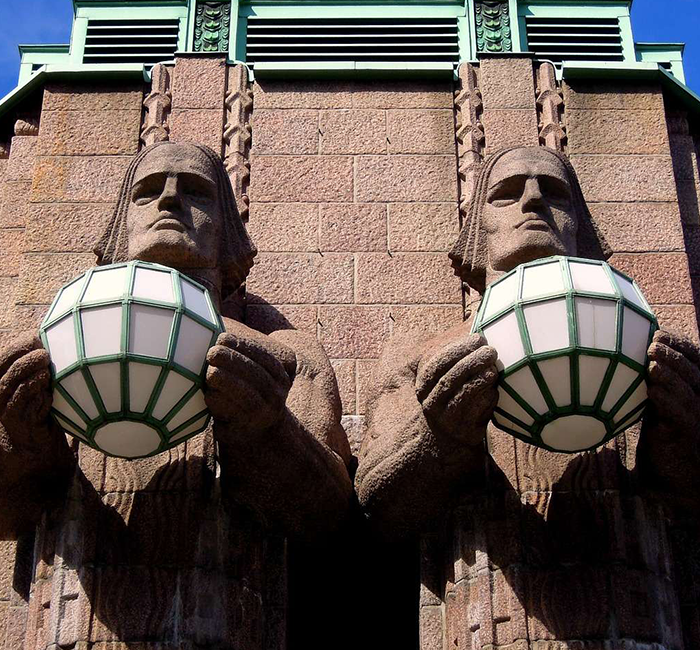
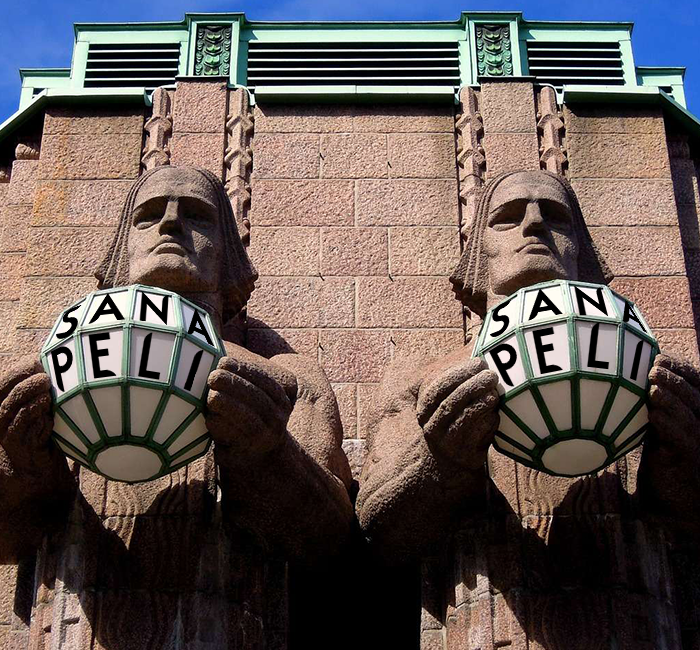
alkuruudun muokkausta

diff --git a/css/index.css b/css/index.css
@@ -16,19 +16,11 @@
 
 .start-screen img {
   width: 100%;
-  max-width: 300px;
+  max-width: 200px;
   height: auto;
   display: block; 
-  margin: -80px auto 0;  
-  margin-top: 120px;
-}
-.start-screen .GameName{
-  height: auto;
-  position: absolute;
-  top: -1%;
-  left: 50%;
-  transform: translate(-50%, -50%);
-  z-index: 999;
+  margin: -20px auto 0;  
+  margin-top: 65px;
 }
 .start-button {
   position: relative; 
@@ -40,6 +32,8 @@
 .start-buttons .button-row {
   display: flex;
   justify-content: center; 
+  margin-top: 70px;
+  gap: 100px;
 }
 .start-button::before {
   content: '';
@@ -67,25 +61,6 @@
 .button2::before {
   background-image: url('../images/second\ stage\ text.png'); 
 }
-
-.button3 {
-  background-image: url('../images/start\ game\ button.png'); 
-  padding: 60px 200px;
-}
-
-.button3::before {
-  background-image: url('../images/start\ game\ text.png'); 
-  top: 150%;
-  width: 350px; 
-  height: 350px; 
-}
-
-
 .start-button:hover {
   transform: scale(1.1);
-}
-
-table {
-  border-collapse: collapse;
-  margin-top: 30px;
 }

diff --git a/index.html b/index.html
@@ -8,14 +8,13 @@
 </head>
 <body>
 <div class="start-screen" id="startScreen">
-  <img src="images/title.png" class="GameName" alt="GameName">
-  <img src="images/puzzle example.png" alt="puzzle">
+  <img src="images/game example.png" alt="puzzle">
   <div class="start-buttons">
     <div class="button-row">
       <a href="pages/ohjeet.html" class="start-button button1"></a>
       <a href="pages/ohjeet.html" class="start-button button2"></a>
     </div>
-    <a href="pages/ohjeet.html" class="start-button button3"></a>
+ 
   </div>
 </div>
 
